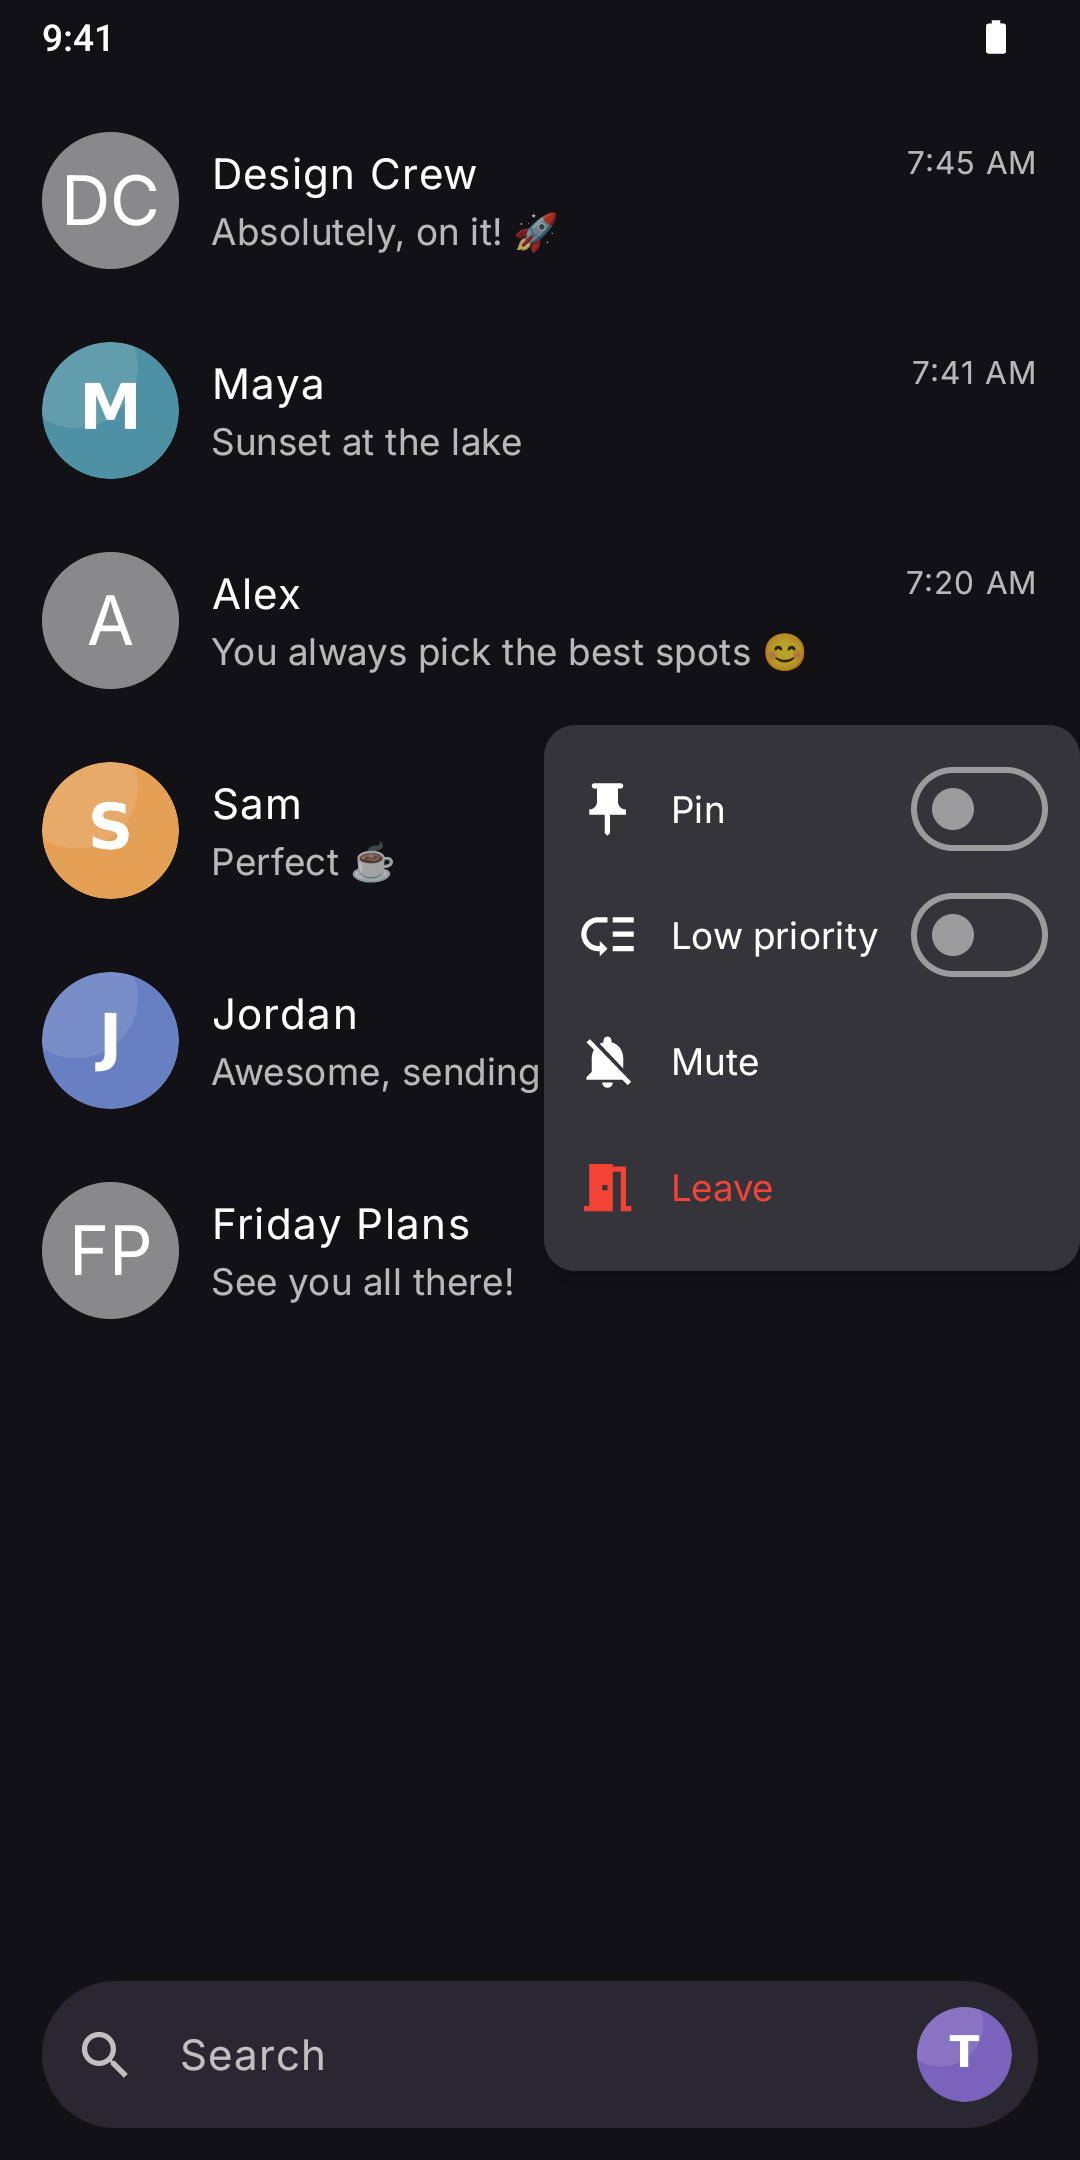
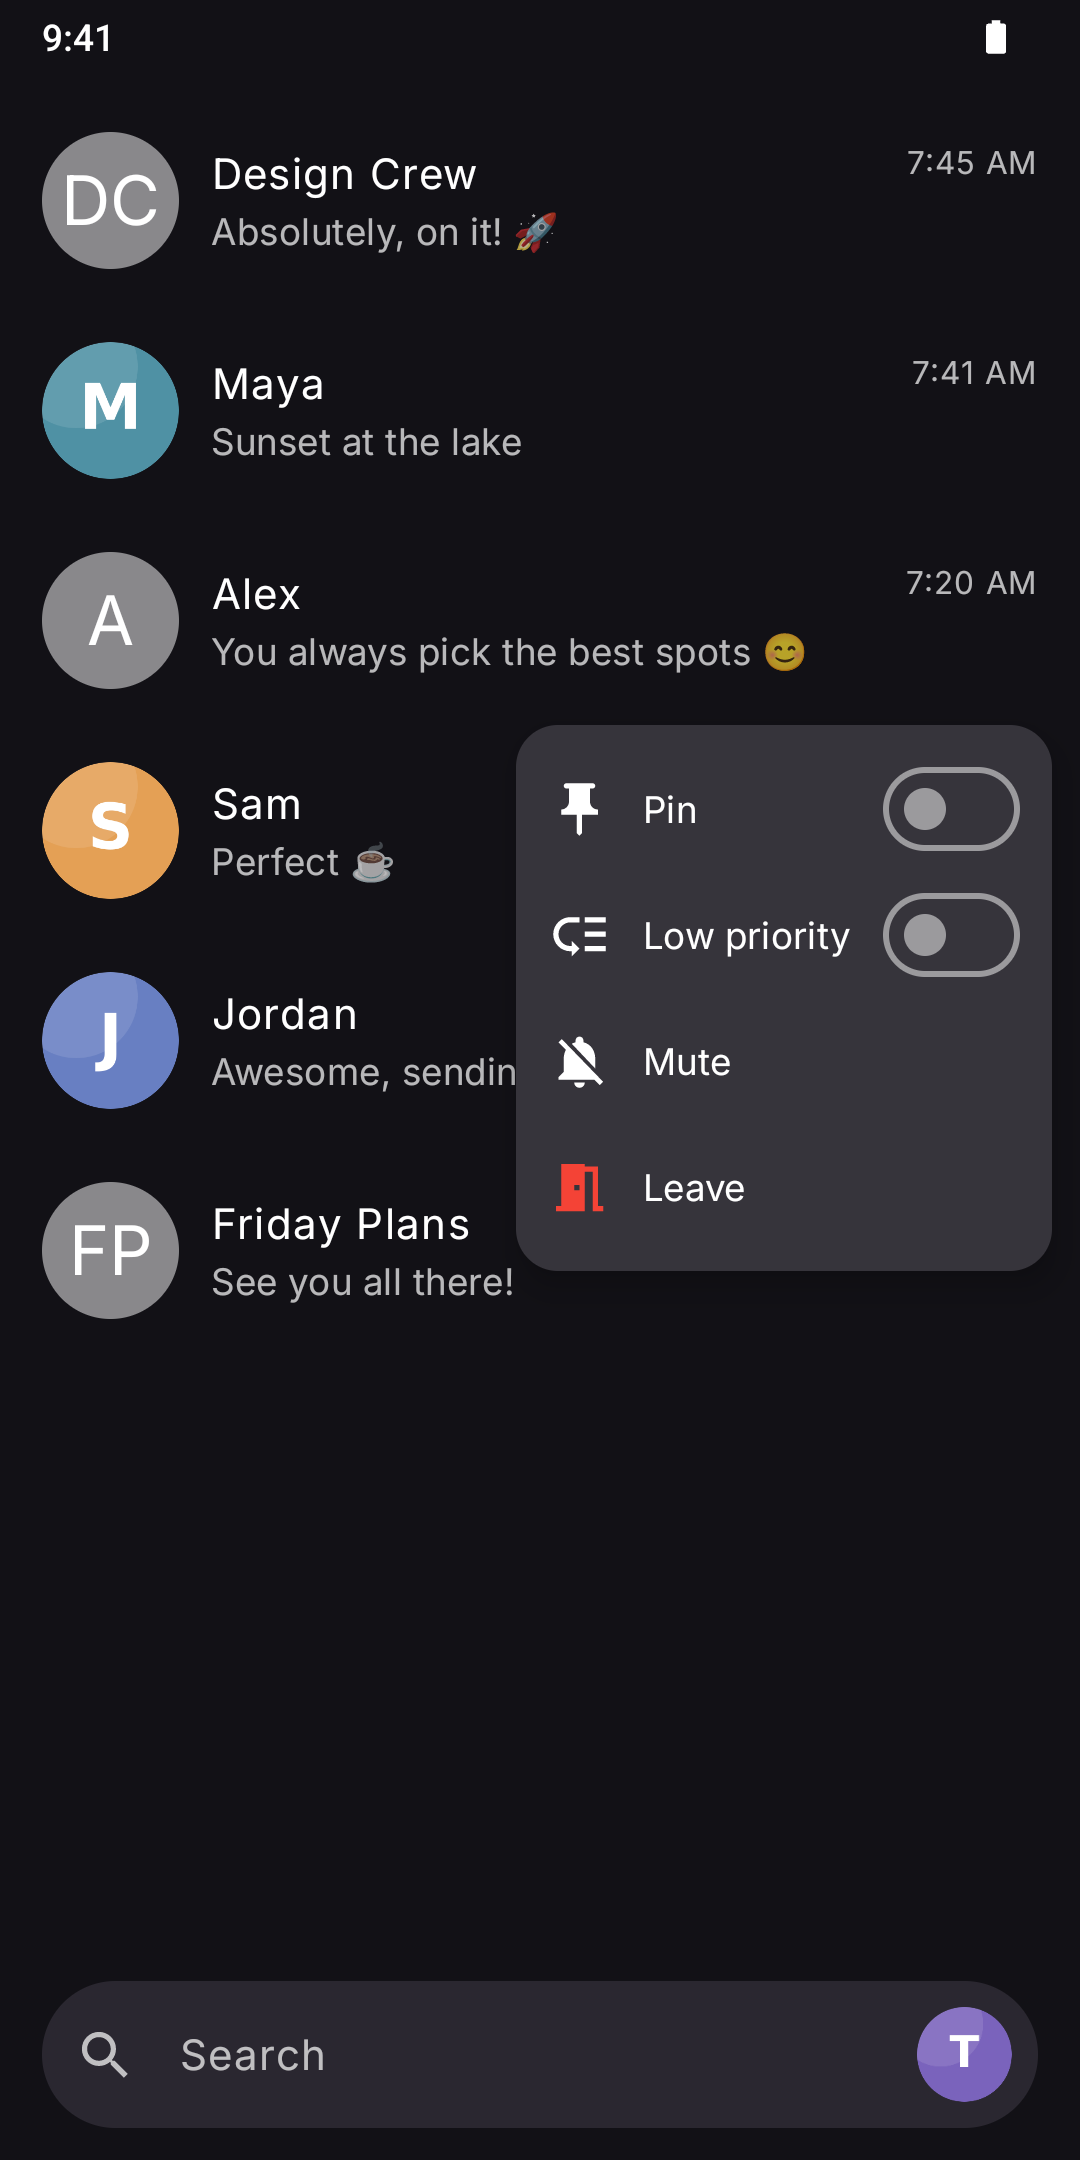
polish(kite): inset inbox context menu and soften critical action

diff --git a/composeApp/src/jvmMain/kotlin/chat/schildi/revenge/compose/components/ContextMenu.kt b/composeApp/src/jvmMain/kotlin/chat/schildi/revenge/compose/components/ContextMenu.kt
@@ -229,11 +229,15 @@ fun WithContextMenu(
                 containerColor = if (presentation == ContextMenuPresentation.Message) Color.Transparent else containerColor,
                 tonalElevation = 0.dp,
                 shadowElevation = if (presentation == ContextMenuPresentation.Message) 0.dp else 8.dp,
-                offset = offset,
+                offset = if (presentation == ContextMenuPresentation.Default) {
+                    DpOffset(offset.x - 12.dp, offset.y)
+                } else {
+                    offset
+                },
                 shape = if (presentation == ContextMenuPresentation.Message) {
                     MaterialTheme.shapes.extraLarge
                 } else {
-                    MaterialTheme.shapes.medium
+                    MaterialTheme.shapes.large
                 },
                 // Message actions intentionally stay non-focusable. Current Google Messages
                 // keeps the floating action surface visible while a second long-press lands
@@ -509,18 +513,19 @@ private fun ContextMenuDropdownMenuItemContent(
     modifier: Modifier = Modifier,
 ) {
     val keyboardShortcutsEnabled = LocalKeyboardActionHandler.current.keyboardPrimary.collectAsState().value
-    val primaryColor = if (entry.critical) {
+    val textColor = MaterialTheme.colorScheme.onSurface
+    val iconColor = if (entry.critical) {
         MaterialTheme.colorScheme.error
     } else {
-        MaterialTheme.colorScheme.onSurface
+        textColor
     }
     DropdownMenuItem(
         modifier = modifier,
         enabled = entry.enabled,
         colors = MenuItemColors(
-            textColor = primaryColor,
-            leadingIconColor = primaryColor,
-            trailingIconColor = primaryColor,
+            textColor = textColor,
+            leadingIconColor = iconColor,
+            trailingIconColor = textColor,
             disabledTextColor = MaterialTheme.colorScheme.tertiary,
             disabledLeadingIconColor = MaterialTheme.colorScheme.tertiary,
             disabledTrailingIconColor = MaterialTheme.colorScheme.tertiary,

diff --git a/MIGRATION.md b/MIGRATION.md
@@ -1525,3 +1525,11 @@ After the b7fd251b visual slice was committed, concurrent adjacent work advanced
 
[1 lines of base64/hex data omitted]
 - Samsung SM-S931B was unavailable: `adb connect 10.66.66.3:5555` timed out twice, TCP port timed out and Glass Mobile MCP / `adb devices` listed only the isolated Waydroid. No Samsung install or foreground action occurred; actual installed version/UID/firstInstallTime could not be checked. Reattempt only after it reconnects; verify live package/certificate/nondecreasing version before `adb install -r`, then preserve and confirm UID/firstInstallTime and foreground MainActivity. Never uninstall/reset.
+
+## 2026-10-24 — Screenshot-led Inbox context-menu edge and critical-action tone
+
+- Visually opened the 50 verified genuine Android PNGs in both themes, including Inbox, direct/group chats, reactions, full emoji picker, selection/reply, attachments/media, search, Settings and details. The Inbox long-press popup sat flush against the right viewport edge, used tighter corners than nearby Kite surfaces, and made the entire Leave action bright red.
+- In the existing shared Compose context-menu presentation only, shifted default popup content 12dp inward, used the theme's large corner radius, and kept critical text neutral with the warning icon red. No actions, routes, gestures, account data or Matrix contracts changed; the message-action presentation keeps its existing offset and shape.
+- Worked in isolated `/home/brandon/worktrees/kite-inbox-menu-visual-20261024-1015`, preserving dirty main and other unfinished worktrees. Glass buildq #1238 `:androidApp:assemblePerfDebug -PandroidAbi=x86 --offline --no-daemon` PASS (280 tasks, lint included). Installed in-place only on `192.168.240.112:5555`; APK SHA-256 matched the device's installed base APK and fixture UID/first-install timestamp were preserved. Waydroid's long-lived 32-bit PID namespace initially blocked app launches above PID 65535; restarted only the idle disposable container, then confirmed a cold app launch and the fictional Inbox.
+- Glass buildq #1239 captured all 50 real fixture screenshots (25 light/25 dark), regenerated gallery/manifest and curated eight Fastlane images. `python3 scripts/generate_screenshots.py --verify` PASS, no failed states, exactly eight Fastlane images. Kept three previously verified genuine group captures where unrelated paging marks varied only by capture timing.
+- Visually compared before/after `light-inbox-context.png` and `dark-inbox-context.png`: the surface now has a visible ~28px right gutter at 1080px fixture resolution, rounder corners and neutral Leave text with red icon. Inspected fresh nearby chat/reaction/picker/selection/attachment/media/search/settings/member captures in both themes; no observed clipping or visual regression. Glass buildq #1240 `:composeApp:desktopTest` PASS and `git diff --check` PASS. Samsung release/install outcome is recorded separately.
